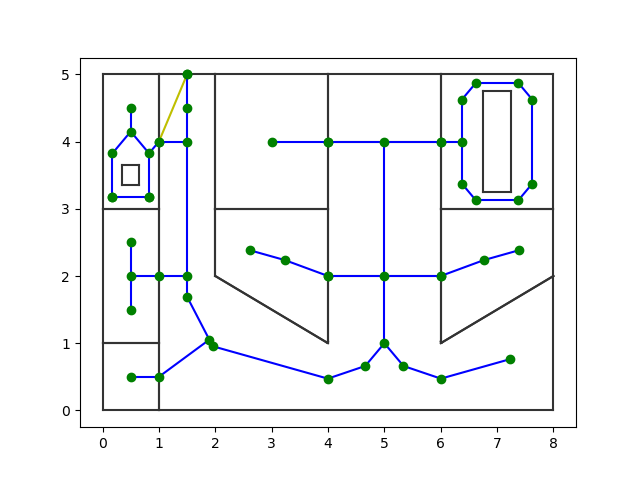
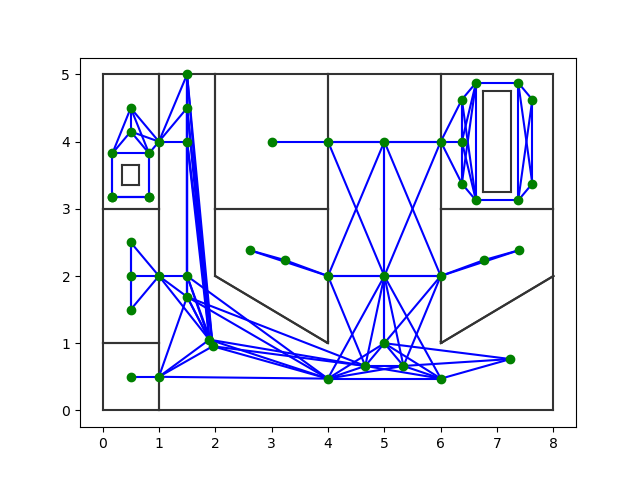
aggiornamento Andrea OK

diff --git a/indoorMain.py b/indoorMain.py
@@ -108,6 +108,10 @@ if __name__ == "__main__":
 
     # function that check the visibilty between two node
     def visibility_check(first_node, second_node, euc_room):
+        d = nx.dijkstra_path_length(totalpath, first_node, second_node, weight='weight')
+        d1 = abs(first_node - second_node)
+        # print(d,d1,nd_room,node_room)
+        if d > d1:
          intsect = False
          for poly in euc_room:
             for wall in poly:
